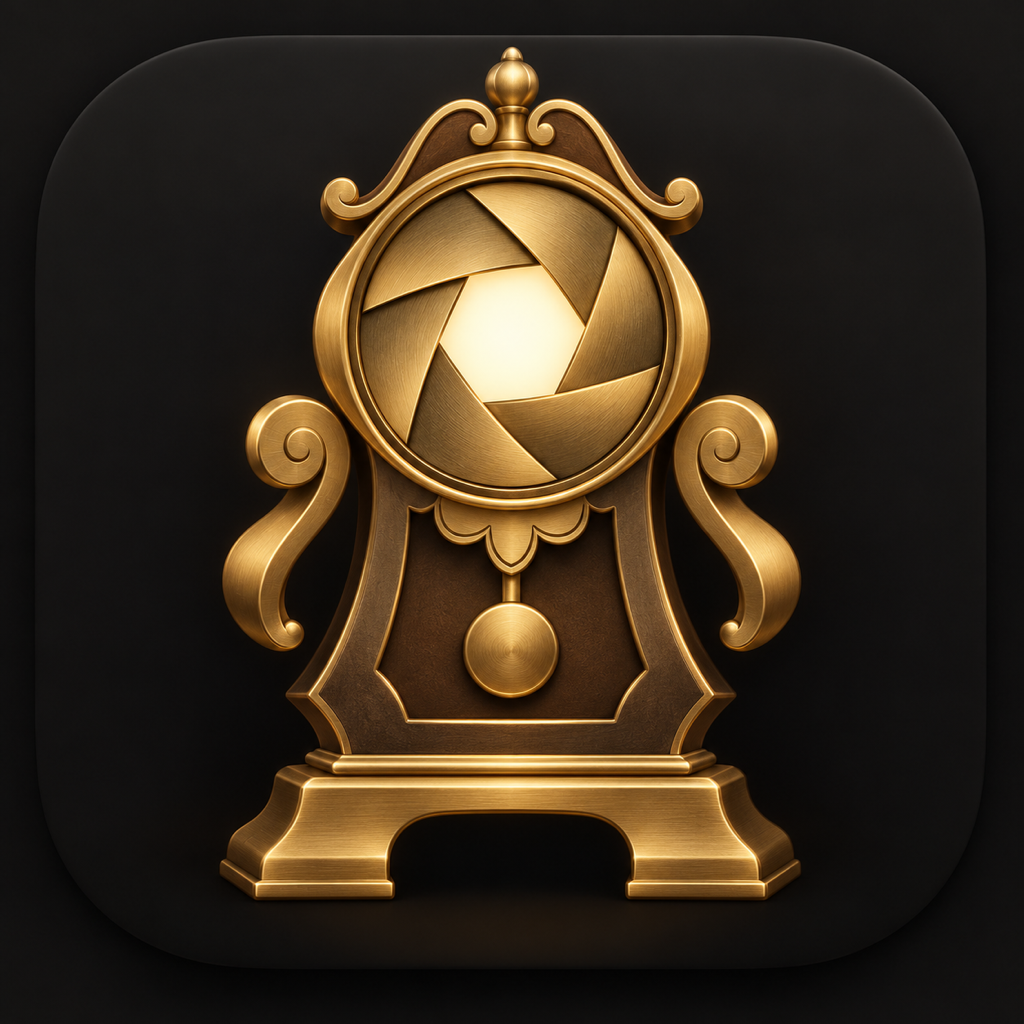
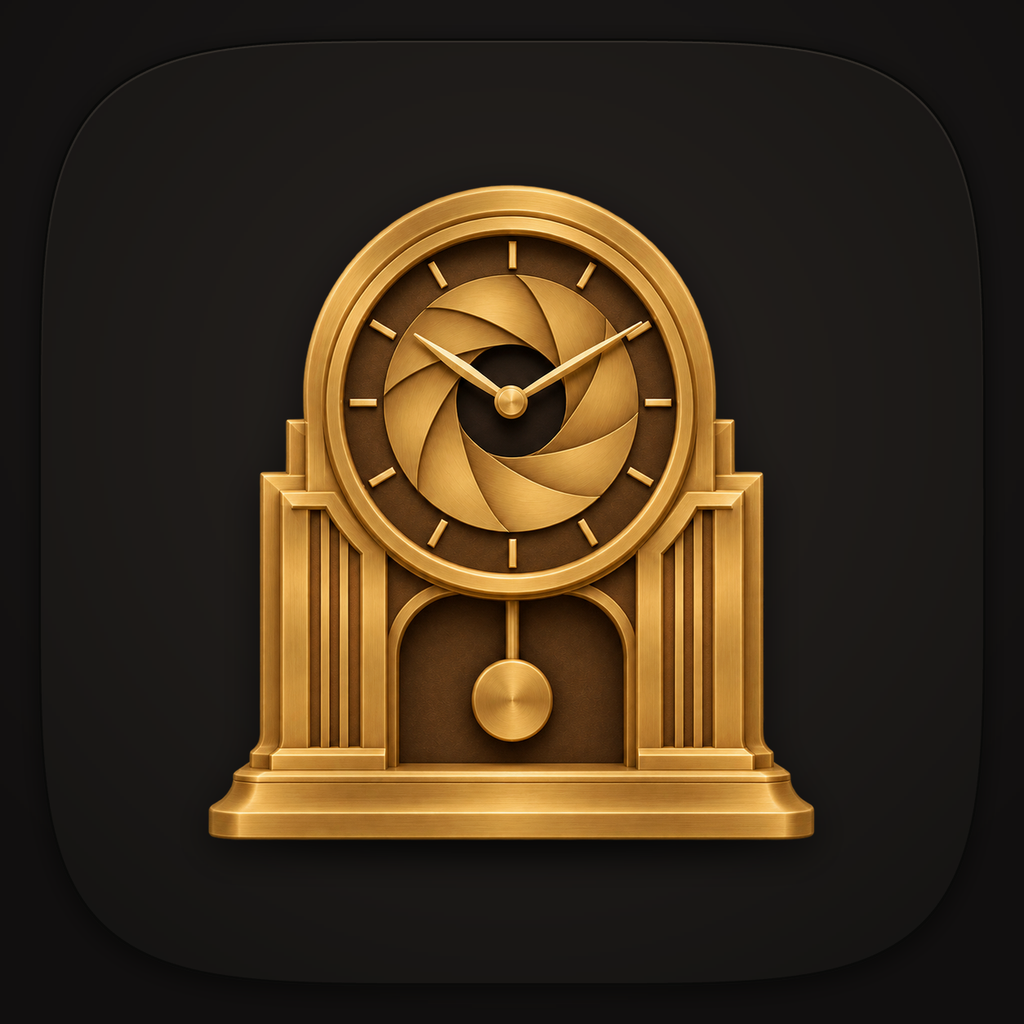
Replace Cogsworth artwork with art-deco aperture clock
Install the new transparent clock as Cogsworth v2, compose framed and
borderless variants on the v1 charcoal backgrounds, and regenerate the
macOS AppIcon sizes, AppIcon-1024 and the LumiereMark menu image.

Claude-Session: https://claude.ai/code/session_01ETaRHW7XWKfrzdUsSfZgbZ

diff --git a/brand/compose-cogsworth-v2.py b/brand/compose-cogsworth-v2.py
@@ -1,0 +1,114 @@
+#!/usr/bin/env python3
+"""Compose the framed and borderless Cogsworth v2 icons from transparent-v2.png.
+
+transparent-v2.png is the supplied art-deco aperture clock on a transparent
+canvas. This script places it on the same warm charcoal backgrounds the v1
+variants used: a full-bleed field (borderless) and a rounded macOS tile
+(framed). Requires Pillow.
+"""
+
+from pathlib import Path
+
+from PIL import Image, ImageChops, ImageDraw, ImageFilter
+
+ROOT = Path(__file__).resolve().parent.parent
+SOURCES = ROOT / "brand/concepts/cogsworth"
+SIZE = 1254
+SS = 4  # supersampling for smooth tile edges
+
+
+def radial(size, inner, outer, center=(0.5, 0.42)):
+    """Warm charcoal radial gradient, brighter slightly above center."""
+    small = 256
+    grad = Image.new("RGB", (small, small))
+    px = grad.load()
+    cx, cy = center[0] * small, center[1] * small
+    rmax = (2 * (small / 2) ** 2) ** 0.5
+    for y in range(small):
+        for x in range(small):
+            t = min(1.0, (((x - cx) ** 2 + (y - cy) ** 2) ** 0.5) / rmax)
+            t = t ** 1.4
+            px[x, y] = tuple(round(a + (b - a) * t) for a, b in zip(inner, outer))
+    return grad.resize((size, size), Image.BICUBIC).filter(ImageFilter.GaussianBlur(4))
+
+
+def squircle_mask(size, inset, exponent=5.0):
+    big = size * SS
+    mask = Image.new("L", (big, big), 0)
+    half = (big - 2 * inset * SS) / 2
+    c = big / 2
+    pts = []
+    import math
+    for i in range(2000):
+        a = 2 * math.pi * i / 2000
+        ca, sa = math.cos(a), math.sin(a)
+        x = c + half * (abs(ca) ** (2 / exponent)) * (1 if ca >= 0 else -1)
+        y = c + half * (abs(sa) ** (2 / exponent)) * (1 if sa >= 0 else -1)
+        pts.append((x, y))
+    ImageDraw.Draw(mask).polygon(pts, fill=255)
+    return mask.resize((size, size), Image.LANCZOS)
+
+
+def clock(height):
+    art = Image.open(SOURCES / "transparent-v2.png").convert("RGBA")
+    # The supplied PNG has faint alpha noise across the canvas; drop it so the
+    # crop and the shadows follow the clock itself.
+    alpha = art.getchannel("A").point(lambda v: v if v >= 10 else 0)
+    art.putalpha(alpha)
+    art = art.crop(alpha.getbbox())
+    width = round(art.width * height / art.height)
+    return art.resize((width, height), Image.LANCZOS)
+
+
+def place(canvas, art, center_y, shadow_strength=150):
+    x = (canvas.width - art.width) // 2
+    y = round(center_y - art.height / 2)
+    # contact shadow under the base plus a soft overall glow-shadow
+    shadow = Image.new("L", canvas.size, 0)
+    shadow.paste(art.getchannel("A"), (x, y + round(art.height * 0.02)))
+    shadow = shadow.filter(ImageFilter.GaussianBlur(art.height * 0.03))
+    shadow = shadow.point(lambda v: v * shadow_strength // 255)
+    canvas.paste(Image.new("RGBA", canvas.size, (0, 0, 0, 255)), (0, 0), shadow)
+    floor = Image.new("L", canvas.size, 0)
+    fx0, fx1 = x + art.width * 0.08, x + art.width * 0.92
+    fy = y + art.height
+    ImageDraw.Draw(floor).ellipse((fx0, fy - art.height * 0.035, fx1, fy + art.height * 0.012), fill=190)
+    floor = floor.filter(ImageFilter.GaussianBlur(art.height * 0.025))
+    canvas.paste(Image.new("RGBA", canvas.size, (0, 0, 0, 255)), (0, 0), floor)
+    canvas.alpha_composite(art, (x, y))
+    return canvas
+
+
+def borderless():
+    canvas = radial(SIZE, (40, 35, 31), (14, 13, 12)).convert("RGBA")
+    art = clock(round(SIZE * 0.70))
+    return place(canvas, art, SIZE * 0.5).convert("RGB")
+
+
+def framed():
+    canvas = radial(SIZE, (27, 25, 24), (17, 15, 15), center=(0.5, 0.3)).convert("RGBA")
+    inset = 47
+    tile_mask = squircle_mask(SIZE, inset)
+    # drop shadow of the tile on the outer surface
+    shadow = tile_mask.filter(ImageFilter.GaussianBlur(14))
+    shadow = ImageChops.offset(shadow, 0, 8).point(lambda v: v * 200 // 255)
+    canvas.paste(Image.new("RGBA", canvas.size, (6, 6, 5, 255)), (0, 0), shadow)
+    plate = radial(SIZE, (36, 32, 29), (19, 18, 17), center=(0.5, 0.4)).convert("RGBA")
+    canvas.paste(plate, (0, 0), tile_mask)
+    # thin dark rim with a faint top highlight
+    rim = ImageChops.subtract(tile_mask, squircle_mask(SIZE, inset + 3))
+    canvas.paste(Image.new("RGBA", canvas.size, (10, 10, 9, 255)), (0, 0), rim)
+    hl = ImageChops.subtract(squircle_mask(SIZE, inset + 3), squircle_mask(SIZE, inset + 5))
+    fade = Image.linear_gradient("L").resize((SIZE, SIZE)).point(lambda v: max(0, 110 - v))
+    hl = ImageChops.multiply(hl, fade)
+    canvas.paste(Image.new("RGBA", canvas.size, (90, 82, 72, 255)), (0, 0), hl)
+    tile = Image.new("RGBA", canvas.size, (0, 0, 0, 0))
+    place(tile, clock(round(SIZE * 0.64)), SIZE * 0.5)
+    tile.putalpha(ImageChops.multiply(tile.getchannel("A"), tile_mask))
+    canvas.alpha_composite(tile)
+    return canvas.convert("RGB")
+
+
+if __name__ == "__main__":
+    borderless().save(SOURCES / "borderless-v2.png", optimize=True)
+    framed().save(SOURCES / "framed-v2.png", optimize=True)

diff --git a/brand/install-cogsworth-icons.py b/brand/install-cogsworth-icons.py
@@ -22,7 +22,7 @@ for variant in ("framed", "transparent", "borderless"):
     name = "Cogsworth" + variant.capitalize()
     imageset = CATALOG / (name + ".imageset")
     imageset.mkdir(parents=True, exist_ok=True)
-    shutil.copyfile(SOURCES / (variant + "-v1.png"), imageset / (name + ".png"))
+    shutil.copyfile(SOURCES / (variant + "-v2.png"), imageset / (name + ".png"))
     (imageset / "Contents.json").write_text(json.dumps({
         "images": [{"filename": name + ".png", "idiom": "universal"}],
         "info": {"author": "xcode", "version": 1},
@@ -31,10 +31,10 @@ for variant in ("framed", "transparent", "borderless"):
 appicon = CATALOG / "AppIcon.appiconset"
 for image in json.loads((appicon / "Contents.json").read_text())["images"]:
     size = int(image["size"].split("x")[0]) * int(image["scale"][0])
-    resize(SOURCES / "framed-v1.png", appicon / image["filename"], size)
+    resize(SOURCES / "framed-v2.png", appicon / image["filename"], size)
 
-resize(SOURCES / "framed-v1.png",
+resize(SOURCES / "framed-v2.png",
        ROOT / "apple/HedonismUploader/Resources/AppIcon-1024.png", 1024)
 # Both Xcode and SwiftPM load this shared resource in the menu and settings header.
-resize(SOURCES / "transparent-v1.png",
+resize(SOURCES / "transparent-v2.png",
        ROOT / "apple/HedonismUploader/Sources/HedonismUploader/Resources/LumiereMark.png", 1024)
